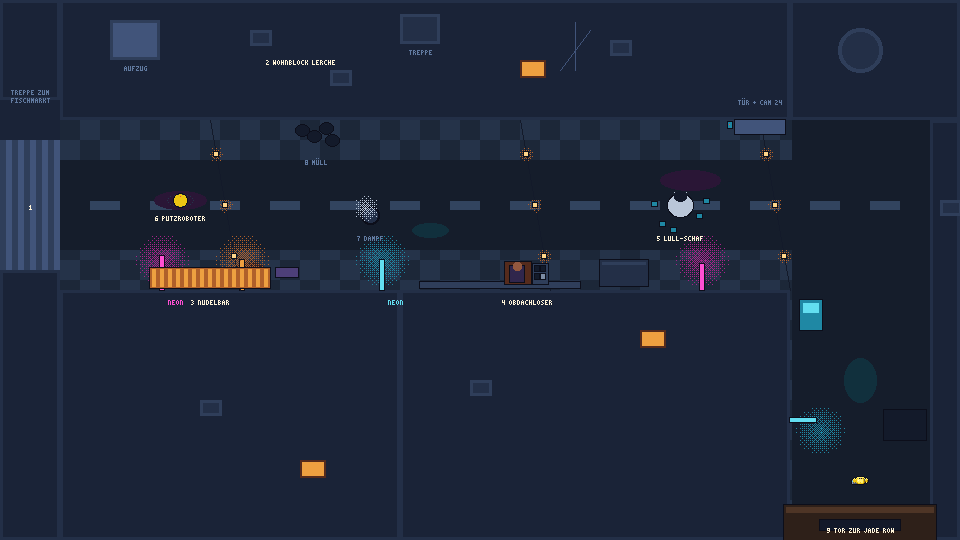
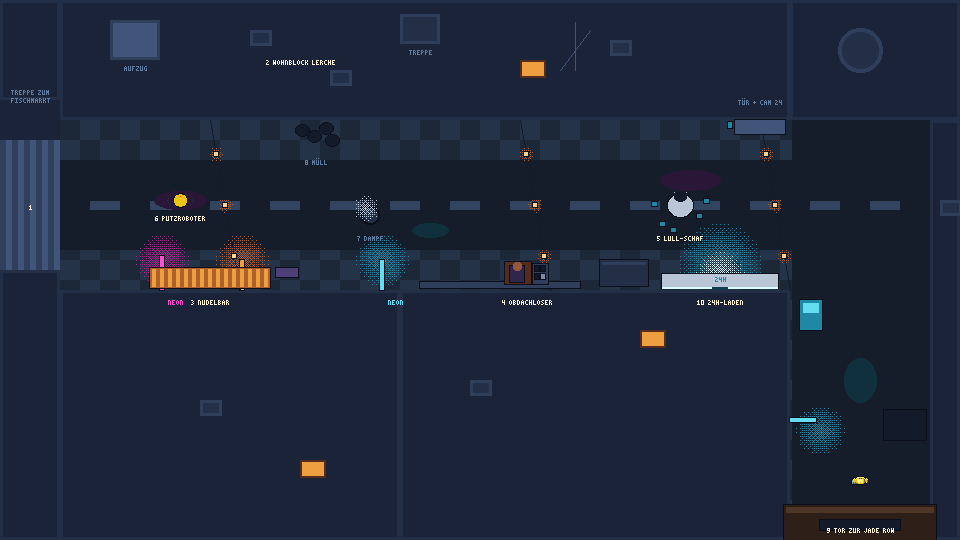
Weg_1 is Fischermann Street now, as the user named it, and it has a 24-hour shop Juno can go into (the user's wish, 2026-11-18; a side quest is planned there, painted later). On the street's south side the shop's white awning with 24H on it and its cold light over the sidewalk and into the road, kep

Changed region(s): [[0.6875, 0.4444, 0.8125, 0.563]]

diff --git a/assets/room_shop24.js b/assets/room_shop24.js
@@ -1,0 +1,12 @@
+// Generated by tools/build-atlas.mjs. Do not edit.
+Cutaway.assets.pack({
+  images: {
[1 lines of base64/hex data omitted]
+  },
+  anims: {
+    "shop24_counter": { image: "room_shop24_atlas", frames: [[488,183,66,58,100]] },
+    "shop24_shelf_a": { image: "room_shop24_atlas", frames: [[323,183,81,86,100]] },
+    "shop24_shelf_b": { image: "room_shop24_atlas", frames: [[406,183,80,77,100]] },
+    "shop24_bg": { image: "room_shop24_atlas", frames: [[1,1,320,180,100],[323,1,320,180,100],[645,1,320,180,100],[1,183,320,180,100],[1,1,320,180,100],[323,1,320,180,100],[645,1,320,180,100],[1,183,320,180,100],[1,1,320,180,100],[323,1,320,180,100],[645,1,320,180,100],[1,183,320,180,100]] },
+  },
+});

diff --git a/assets/room_weg1.js b/assets/room_weg1.js
@@ -1,7 +1,7 @@
 // Generated by tools/build-atlas.mjs. Do not edit.
 Cutaway.assets.pack({
   images: {
[2 lines of base64/hex data omitted]
   },
   anims: {
     "weg1_bg": { image: "room_weg1_atlas", frames: [[1,1,960,540,100]] },

diff --git a/art/rooms/weg1.px.js b/art/rooms/weg1.px.js
@@ -1,10 +1,11 @@
-// Weg_1, the street the user drew in the city plan (2026-11-18): from the gate at the end of Jade Row north, then west past the Wohnblock
+// Fischermann Street (the user's name for it; Weg_1 in the city plan, drawn by the user on 2026-11-18): from the gate at the end of Jade Row north, then west past the Wohnblock
 // Lerche (the whole north side, its door where the arm turns) to the stairs down to the Old Fish Market. Seen straight down as the Drain
 // Market is, at its size (about 40 px a metre, Juno 13 px across, art/characters/juno_top.px.js). On its approved BLOCKS for now (the user
 // approved them 2026-11-18; the review sheets with their numbered labels: art/test/weg1_blocks.px.js), to be painted on their lines.
 //   weg1_bg   960x540, 3x3 screens: the roofs, the wet street, the neon over the south sidewalk, the cables with their lanterns, the
 //             noodle bar, the homeless man with his cart of screens, Lull's sheep asleep on his feet, the cleaning robot in its puddle,
-//             the steam, the rubbish, Lerche's door with its canopy and keypad, the gate's roof at the arm's foot
+//             the steam, the rubbish, Lerche's door with its canopy and keypad, the 24-hour shop's awning and light (Juno can go in),
+//             the gate's roof at the arm's foot
 // W1.walk(x, y) says where Juno can stand (game/places.js takes its shapes from W1's numbers, printed as WEG1_LAYOUT).
 include("../lib/iso.js", { palette: true })
 include("../lib/text.js")
@@ -49,9 +50,9 @@ const W1 = (() => {
 
   const things = (c) => {
     const box = (x, y, w, h, k, edge = "k") => { c.rect(x - 1, y - 1, w + 2, h + 2, edge); c.rect(x, y, w, h, k) }
-    const glow = (x, y, r, k) => { for (let j = -r; j <= r; j++) for (let i = -r; i <= r; i++) { const d = Math.hypot(i, j) / r; if (d < 1 && bay(x + i, y + j) < (1 - d) * 0.6) c.px(x + i, y + j, k) } }
+    const glow = (x, y, r, k, below = 1e9) => { for (let j = -r; j <= r; j++) for (let i = -r; i <= r; i++) { const d = Math.hypot(i, j) / r; if (d < 1 && y + j < below && bay(x + i, y + j) < (1 - d) * 0.6) c.px(x + i, y + j, k) } }   // (below: not past a facade)
     // neon signs sticking out of the facades over the sidewalks: from above only their top edge, the light pool under them
-    for (const [x, y, len, k, pool, side] of [[160, SF, 34, "m", "M", -1], [380, SF, 30, "v", "C", -1], [240, SF, 30, "Q", "P", -1], [700, SF, 26, "m", "M", -1], [AX0, 420, 26, "v", "C", 0]]) {
+    for (const [x, y, len, k, pool, side] of [[160, SF, 34, "m", "M", -1], [380, SF, 30, "v", "C", -1], [240, SF, 30, "Q", "P", -1], [AX0, 420, 26, "v", "C", 0]]) {
       if (side === 0) { glow(x + 30, 430, 26, pool); box(x, 418, len, 4, k) }
       else { glow(x + 2, y + side * 30, 28, pool); box(x, side > 0 ? y : y - len, 4, len, k) }
     }
@@ -60,6 +61,11 @@ const W1 = (() => {
     // the noodle bar's awning on the south side (amber), the shut shop's shutter beside it with a tag
     box(150, SF - 22, 120, 20, "P"); for (let x = 152; x < 268; x += 8) c.rect(x, SF - 21, 4, 18, "Q")
     box(420, SF - 8, 160, 6, "4")
+    // the 24-hour shop on the south side (the user's wish, 2026-11-18: Juno can go in; a side quest there later): its white light
+    // spilling far over the sidewalk and into the road, the awning over its glass front with 24H on it, the door's gap in the middle
+    glow(720, SF - 26, 44, "C", SF - 3); glow(720, SF - 14, 26, "V", SF - 3)
+    box(662, SF - 16, 116, 14, "H"); c.rect(662, SF - 3, 116, 2, "V"); c.rect(712, SF - 3, 16, 3, "c")
+    TXT.draw(c, 720, SF - 13, "24H", "C", { font: "hud", align: "center" })
     // Lerche's door in the house's south-east corner (the user's plan): a canopy over it, the keypad and the doorbell camera beside it
     // (CAM 24), the doormat
     box(735, NF, 50, 14, "5"); box(728, NF + 2, 4, 6, "C"); c.px(729, NF + 4, "q")

diff --git a/art/kit/shop24.kit.px.js b/art/kit/shop24.kit.px.js
@@ -1,0 +1,68 @@
+// The kit pieces shop24 needs (art/rooms/shop24.map.js), made by tools/new-room.mjs. BLOCKS of the 24-hour shop on Fischermann Street
+// (2026-11-18; painted later): plain shapes in a shop's cold white light. Registered with ISOKIT (art/lib/isokit.js has the calls), drawn in
+// room meters, lit by the bake; keys of the world palette (art/lib/iso.js). A kit's names are global in a bake: keep this one's prefixed.
+//
+//   floor    s  pale tiles, 50 cm, a joint between them
+//   walls    sh_wall  white panels, a dark skirting
+//   openings sh_window (the glass front: the street's night behind it; op.sign: the 24H sign seen from behind, mirrored; op.door: a
+//            glass door, its push bar), sh_fridges (drink fridges in a row along the wall, their cyan light, the cans)
+//   props    sh_counter (the counter with the register), sh_shelf (a row of shelves, both sides full)
+// Keys "!k" are never lit.
+
+const KIT_SHOP24 = (() => {
+  const near = (x, c, w = 1 / 48) => Math.abs(x - c) < w, fl = Math.floor
+
+  ISOKIT.floor("s", (u, v) => (near(u * 2, Math.round(u * 2), 1 / 24) || near(v * 2, Math.round(v * 2), 1 / 24) ? "5" : "6"))
+  ISOKIT.wall("sh_wall", (s, h) => (h < 0.08 ? (h >= 0.055 ? "4" : "2") : "G"))
+
+  ISOKIT.opening("sh_window", {
+    pad: [0.05, 0, 0.05, 0.05],
+    pass: () => true,
+    paint(s, h, o) {
+      const { a, e, aw, ah } = o, op = o.op ?? {}
+      if (a < 0 || a >= aw || e >= ah) return a < -1 || a > aw || e > ah ? null : "4"
+      if (op.door && e > 26 && e < 29) return "6"                                        // the push bar
+      if (op.door && (a === fl(aw / 2))) return "4"
+      // the 24H sign seen from behind (mirrored), its tubes lit
+      if (op.sign && e > ah - 16 && e < ah - 6 && a > 8 && a < aw - 8) {
+        const t = (aw - 1 - a) % 12
+        return t < 2 || (t > 4 && t < 6) ? "!N" : "!n"
+      }
+      return (a + e) % 13 === 0 ? "!h" : e < 6 ? "!2" : "!1"                            // the street's night, a drop of rain
+    },
+  })
+  ISOKIT.opening("sh_fridges", {
+    paint(s, h, o) {
+      const { a, e, aw, ah } = o
+      if (a < 0 || a >= aw || e >= ah) return null
+      const door = a % 24
+      if (door < 1 || e < 4 || e > ah - 4) return "4"                                   // the frames, the kick plate, the top
+      if (door === 20) return "6"                                                        // a handle
+      const shelf = (e - 4) % 11
+      if (shelf < 1) return "!C"
+      if (shelf > 3 && (a * 3 + e) % 5 < 3) return ["!q", "!v", "!Q", "!m", "!V"][fl(a / 4 + e / 11) % 5]   // cans and bottles
+      return "!c"
+    },
+  })
+
+  ISOKIT.prop("sh_counter", {
+    draw(pen, p) {
+      const [u, v] = p.at, [du, dv] = p.foot, H = p.h
+      pen.box(u, v, 0, du, dv, H, () => "H", () => "4", () => "5")
+      pen.box(u + 0.2, v + 0.1, H, 0.4, 0.35, 0.2, () => "4", () => "3", (a, e, o) => (e > 2 && a > 2 && a < o.aw - 3 ? "!v" : "3"))   // the register, its display
+      pen.box(u + 0.85, v + 0.15, H, 0.35, 0.3, 0.3, () => "Q", () => "P", () => "Q")     // a rack of sweets
+    },
+  })
+  ISOKIT.prop("sh_shelf", {
+    draw(pen, p) {
+      const [u, v] = p.at, [du, dv] = p.foot, H = p.h
+      pen.box(u, v, 0, du, dv, H, () => "4", () => "3", (a, e, o) => {
+        const row = e % 12
+        if (row < 2) return "5"                                                          // the boards
+        return ["q", "v", "Q", "m", "C", "y", "N"][fl(a / 3 + e / 12) % 7]               // the goods, every colour
+      })
+    },
+  })
+
+  return {}
+})()

diff --git a/game/rooms/weg1.js b/game/rooms/weg1.js
@@ -1,4 +1,4 @@
-// weg1: Weg_1, the street the user drew in the city plan (2026-11-18), seen straight down as the Drain Market is (art/rooms/weg1.px.js, on
+// weg1: Fischermann Street (the user's name; Weg_1 in the city plan, where the user drew it on 2026-11-18), seen straight down as the Drain Market is (art/rooms/weg1.px.js, on
 // its approved blocks for now): from the gate at the end of Jade Row north, then west past the Wohnblock Lerche (its door where the arm
 // turns: the keypad, CAM 24's doorbell lens) to the stairs down to the Old Fish Market, shut for now (the user: maybe later, with a side
 // quest). Juno is seen from above here (game/cast.js). Its people (the homeless man, Lull's sheep, the cleaning robot) are in the picture
@@ -8,7 +8,7 @@
 (function () {
   const A = Nagiwa.at.weg1, AJ = Nagiwa.at.jade_row;
   Cutaway.room("weg1", {
-    name: "Weg_1", background: "weg1_bg", size: /** @type {[number, number]} */ (A.size), walk: A.walk, holes: A.holes,
+    name: "Fischermann Street", background: "weg1_bg", size: /** @type {[number, number]} */ (A.size), walk: A.walk, holes: A.holes,
     light: { ambient: 1 },
     fx: [
       { kind: "rain", rect: [0, 0, A.size[0], A.size[1]], count: 160, color: "#41547a", speed: 160, slant: 0.15, length: 3 },
@@ -29,6 +29,9 @@
       noodles: { name: "Nudelbar", rect: A.noodlesRect, walkTo: A.noodles, face: "down", look: "Die Nudelbar hat noch auf. Riecht nach Brühe und nassem Karton." },
       trash: { name: "Müll", poly: A.trashPoly, walkTo: A.trash, face: "up", look: "Müllsäcke vor dem Wohnblock. Die holt hier keiner." },
       steam: { name: "Gully", poly: A.steamPoly, walkTo: A.steam, face: "right", look: "Aus dem Gully dampft es. Darunter läuft irgendwas Warmes." },
+      // the 24-hour shop (the user's wish, 2026-11-18): Juno can go in from Chapter 2 on; a side quest is planned there
+      shop: { name: "24h-Laden", rect: A.shopRect, walkTo: A.shop, face: "down", look: ["Ein 24h-Laden. Das Licht fällt bis auf die Straße.", "Drinnen sieht man Regale, aber keinen Menschen."],
+        use: [{ if: "day>4", then: [{ sfx: "door_open" }, { goto: "shop24", at: Nagiwa.at.shop24.arrive, face: "se" }], else: ["Heute nicht."] }] },
       lerche: { name: "Wohnblock Lerche", rect: A.lercheRect, walkTo: A.lerche, face: "up",
         look: ["Die Haustür vom Wohnblock Lerche. Neben der Klingel sitzt das Zahlenfeld.", "Und die Linse, durch die ich in CAM 24 schaue."] },
     },

diff --git a/art/rooms/shop24.map.js b/art/rooms/shop24.map.js
@@ -1,0 +1,47 @@
+// shop24: the 24-hour shop on Fischermann Street (Chapter 2, the user's wish, 2026-11-18: Juno can go in; a side quest is planned there), as a
+// map (art/lib/isomap.js has the format), made by tools/new-room.mjs. Every length in meters. BLOCKS (to be painted later): seen from the
+// south-east, so its north wall is the glass front onto the street (u east), its west wall the drink fridges. Two rows of shelves, the counter
+// with the register by the door, cold tubes over it all; in the window the 24H sign seen from behind.
+"use strict";
+
+ISO_MAPS.shop24 = {
+  size: [5, 4], cell: 0.5, at: [144, 86], screen: [320, 180], margin: 0.2,
+  // "s" the shop's pale tiles
+  floor: [
+    "ssssssssss",
+    "ssssssssss",
+    "ssssssssss",
+    "ssssssssss",
+    "ssssssssss",
+    "ssssssssss",
+    "ssssssssss",
+    "ssssssssss",
+  ],
+  walls: [
+    { from: [0, 0], to: [5, 0], h: 2.6, kit: "sh_wall" },          // 0: the north wall, the glass front onto the street
+    { from: [0, 0], to: [0, 4], h: 2.6, kit: "sh_wall" },          // 1: the west wall, the fridges
+    { from: [0, 4], to: [5, 4], h: 2.6, kit: "sh_wall", stub: true },
+    { from: [5, 0], to: [5, 4], h: 2.6, kit: "sh_wall", stub: true },
+  ],
+  openings: [
+    { id: "window", wall: 0, from: 0.3, to: 1.9, h: [0.5, 2.3], kit: "sh_window", sign: true },
+    { id: "door", wall: 0, from: 2.1, to: 2.9, h: [0, 2.2], kit: "sh_window", door: true },
+    { id: "window2", wall: 0, from: 3.1, to: 4.7, h: [0.5, 2.3], kit: "sh_window" },
+    { id: "fridges", wall: 1, from: 0.3, to: 3.3, h: [0, 2.0], kit: "sh_fridges" },
+  ],
+  props: [
+    { id: "counter", kit: "sh_counter", at: [3.4, 0.9], foot: [1.4, 0.6], h: 1.0 },
+    { id: "shelf_a", kit: "sh_shelf", at: [1.1, 1.7], foot: [2.0, 0.45], h: 1.5 },
+    { id: "shelf_b", kit: "sh_shelf", at: [1.1, 2.9], foot: [2.0, 0.45], h: 1.5 },
+  ],
+  spots: {
+    arrive: [2.5, 0.65, "se"], door: [2.5, 0.55, "ne"], counter: [3.55, 1.8, "ne"], fridges: [0.65, 1.6, "nw"],
+    shelves: [2.3, 2.45, "nw"],
+  },
+  lights: [
+    { id: "tubes", at: [2.5, 2.0, 2.55], r: 200, power: 1.1, color: "#d8f0ff", flicker: 0.04,
+      bake: { line: [[1.0, 1.5, 2.55], [4.0, 1.5, 2.55]], reach: 4.5, power: 1.6, floor: 1.3, wrap: 0.6 } },
+    { id: "fridges", at: [0.1, 1.8, 1.0], r: 60, power: 0.7, color: "#62def0",
+      bake: { line: [[0.05, 0.4, 1.0], [0.05, 3.2, 1.0]], reach: 1.2, power: 1.4 } },
+  ],
+};

diff --git a/game/rooms/shop24.layout.js b/game/rooms/shop24.layout.js
@@ -1,0 +1,6 @@
+// generated by tools/iso-layout.mjs from art/rooms/shop24.map.js and its bake (tools/build_art.sh room shop24):
+// never edit by hand; change the map or the kit and build again
+"use strict";
+
+Nagiwa.layouts = Nagiwa.layouts || {};
+Nagiwa.layouts["shop24"] = {"walk":[[144,92,292,166,276,174,224,148,198,161,124,124,96,138,172,176,176,176,196,166,216,176,80,176,28,150]],"holes":[[86,143,58,157,96,176,152,176]],"props":{"counter":{"front":[186,155,205,164,250,187,269,177,288,168],"baseline":187,"poly":[224,125,269,147,269,177,250,187,205,164,205,134],"at":[237,181],"box":[204,123,66,58],"sprite":"shop24_counter","shape":[203,133,224,122,230,122,249,130,259,135,271,146,271,178,265,182,234,182,203,166]},"shelf_a":{"front":[91,128,110,138,174,170,189,163,208,153],"baseline":170,"poly":[125,86,189,118,189,163,174,170,110,138,110,93],"at":[149,171],"box":[109,85,81,86],"sprite":"shop24_shelf_a","shape":[108,92,122,84,127,84,191,117,191,164,176,172,172,172,108,139]},"shelf_b":{"front":[53,148,72,157,136,189,150,182,170,172],"baseline":189,"poly":[86,105,150,137,150,182,136,189,72,157,72,112],"at":[111,181],"box":[71,104,80,77],"sprite":"shop24_shelf_b","shape":[70,111,84,103,88,103,152,136,151,182,116,182,70,158]}},"openings":{"window":[153,21,54,82],"door":[210,53,29,81],"window2":[242,66,54,82],"fridges":[37,30,99,111]},"openingPolys":{"window":[154,76,205,101,205,47,154,22],"door":[211,120,237,132,237,66,211,54],"window2":[243,121,294,146,294,92,243,67],"fridges":[134,91,38,139,38,79,134,31]},"zonePolys":{},"spots":{"arrive":[203,136],"door":[206,135],"counter":[200,172],"fridges":[114,122],"shelves":[139,162]},"face":{"arrive":"se","door":"ne","counter":"ne","fridges":"nw","shelves":"nw"},"lamps":[{"id":"tubes","at":[160,82],"r":200,"power":1.1,"color":"#d8f0ff","flicker":0.04,"bake":{"line":[[1,1.5,2.55],[4,1.5,2.55]],"reach":4.5,"power":1.6,"floor":1.3,"wrap":0.6}},{"id":"fridges","at":[90,86],"r":60,"power":0.7,"color":"#62def0","bake":{"line":[[0.05,0.4,1],[0.05,3.2,1]],"reach":1.2,"power":1.4}}]};

diff --git a/game/rooms/shop24.js b/game/rooms/shop24.js
@@ -1,0 +1,23 @@
+// shop24: the 24-hour shop on Fischermann Street (the user's wish, 2026-11-18), on blocks for now (art/rooms/shop24.map.js; painted later): its
+// picture, walk area, props and lamps come from the bake (game/rooms/shop24.layout.js, Nagiwa.at.shop24). Juno can go in from Chapter 2 on;
+// a side quest is planned here (nobody behind the counter yet). The way in is the shop's door on the street (game/rooms/weg1.js).
+"use strict";
+
+(function () {
+  const A = Nagiwa.at.shop24, AW = Nagiwa.at.weg1;
+  Cutaway.room("shop24", {
+    name: "24h-Laden", background: "shop24_bg",
+    walk: A.walk, holes: A.holes, props: A.props,
+    light: { ambient: 0.9, lamps: A.lamps.map((/** @type {any} */ { bake, zone, ...lamp }) => lamp) },
+    ambience: ["fridge_hum", "neon_buzz"], music: { theme: "juno", intensity: 0.2 },
+    hotspots: {
+      door: { name: "Zur Fischermann Street", poly: A.doorPoly, walkTo: A.door, face: "ne", look: "Draußen ist die Fischermann Street.",
+        use: [{ sfx: "door_open" }, { goto: "weg1", at: AW.shop, face: "down" }] },
+      window: { name: "Schaufenster", poly: A.windowPoly, walkTo: A.door, face: "ne", look: "Im Fenster steht 24H, von innen verkehrt herum." },
+      fridges: { name: "Kühlschränke", poly: A.fridgesPoly, walkTo: A.fridges, face: "nw", look: "Kühlschränke voller Dosen. Das Licht ist das kälteste im ganzen Neunten." },
+      counter: { name: "Kasse", poly: A.counterPoly, walkTo: A.counter, face: "ne", look: ["Hinter der Kasse ist keiner.", "Rund um die Uhr offen heißt hier nicht, dass jemand da ist."] },
+      shelves: { name: "Regale", poly: A.shelf_aPoly, walkTo: A.shelves, face: "nw", look: "Nudeln, Batterien, Lull-Pflaster im Zehnerpack. Alles, was man nachts braucht." },
+      shelves_b: { name: "Regale", poly: A.shelf_bPoly, walkTo: A.shelves, face: "nw", look: "Nudeln, Batterien, Lull-Pflaster im Zehnerpack. Alles, was man nachts braucht." },
+    },
+  });
+})();

diff --git a/game/places.js b/game/places.js
@@ -50,6 +50,8 @@ Nagiwa.at = {
   // Ines' flat, 4B, on blocks (art/rooms/ines_wohnung.map.js, game/rooms/ines_wohnung.layout.js); the fridge's upper part has the napkin
   // under its magnet, its lower part is the freezer (one hotspot asks which)
   ines_wohnung: fromLayout(Nagiwa.layouts.ines_wohnung),
+  // shop24 (art/rooms/shop24.map.js, game/rooms/shop24.layout.js)
+  shop24: fromLayout(Nagiwa.layouts.shop24),
   // lerche_eg (art/rooms/lerche_eg.map.js, game/rooms/lerche_eg.layout.js)
   // (the street door is a gap in the near wall, south-east: its hotspot drawn on it from the map, u 7.3 to 8.2 at v 4, up to 2 m)
   lerche_eg: { ...fromLayout(Nagiwa.layouts.lerche_eg), doorPoly: [250, 265, 278, 279, 278, 219, 250, 205] },
@@ -104,7 +106,7 @@ Nagiwa.at = {
     holes: [[296, 130, 344, 130, 344, 156, 296, 156], [596, 254, 654, 254, 654, 282, 596, 282], [501, 254, 552, 254, 552, 282, 501, 282],
       [798, 296, 826, 296, 826, 334, 798, 334], [880, 406, 922, 406, 922, 444, 880, 444], [664, 190, 696, 190, 696, 220, 664, 220], [170, 190, 190, 190, 190, 210, 170, 210]],
     gate: [860, 492], lerche: [760, 140], fish: [72, 205], homelessTalk: [527, 246], sheepTalk: [650, 205], robotTalk: [206, 200],
-    noodles: [210, 262], trash: [320, 166], steam: [348, 215],
+    noodles: [210, 262], trash: [320, 166], steam: [348, 215], shop: [720, 268], shopRect: [662, 274, 116, 14],
     gateRect: [784, 505, 152, 35], fishRect: [0, 140, 60, 130], homelessRect: [505, 262, 43, 22], noodlesRect: [150, 268, 120, 20], lercheRect: [728, 120, 57, 14],
     sheepPoly: [668, 193, 692, 193, 694, 205, 692, 217, 668, 217, 666, 205], trashPoly: [295, 122, 340, 122, 340, 148, 295, 148],
     steamPoly: [361, 206, 370, 203, 379, 206, 382, 215, 379, 224, 370, 227, 361, 224, 358, 215], robotPoly: [173, 196, 176, 193, 184, 193, 187, 196, 187, 204, 184, 207, 176, 207, 173, 204],

diff --git a/game/kapitel2.js b/game/kapitel2.js
@@ -336,7 +336,7 @@ Cutaway.act("kapitel2", {
     { cache: "note_kessler_photo" }, { cache: "note_obs_handbook" },
     { set: "know_ines" }, { set: "saw_varga" }, { set: "read_kessler" },
     { set: "fridge_empty" }, { set: "rent_notice" }, { set: "moth_met" }, { set: "bao_soup" },
-    { been_to: ["flat", "deck", "kessel_14", "kessel_lobby", "kowalski", "gasse", "laundromat", "sims", "dach", "dach_blick", "dach_sitzen", "lucky_static", "jade_row", "okonkwo_shop", "drain_market", "sable_booth", "cam15", "signal_lost", "flat_danach", "cam03", "cam04", "cam07", "cam07v", "cam14", "cam18", "cam21", "cam22", "cam23", "cam24", "cam25", "cam30", "cam31", "sumpf", "sumpf_fahrt", "lantern_versteck", "drain_arrival", "weg1", "lerche_eg"] },
+    { been_to: ["flat", "deck", "kessel_14", "kessel_lobby", "kowalski", "gasse", "laundromat", "sims", "dach", "dach_blick", "dach_sitzen", "lucky_static", "jade_row", "okonkwo_shop", "drain_market", "sable_booth", "cam15", "signal_lost", "flat_danach", "cam03", "cam04", "cam07", "cam07v", "cam14", "cam18", "cam21", "cam22", "cam23", "cam24", "cam25", "cam30", "cam31", "sumpf", "sumpf_fahrt", "lantern_versteck", "drain_arrival", "weg1", "lerche_eg", "shop24"] },
     { solo: true },
   ],
 });

diff --git a/index.html b/index.html
@@ -68,6 +68,7 @@
 <script src="assets/room_klinik.js"></script>
 <script src="assets/room_lerche_eg.js"></script>
 <script src="assets/room_weg1.js"></script>
+<script src="assets/room_shop24.js"></script>
 <script src="assets/cams.js"></script>
 <script src="assets/ui.js"></script>
 <script src="assets/deck.js"></script>
@@ -91,6 +92,7 @@
 <script src="game/rooms/lantern_versteck.layout.js"></script>
 <script src="game/rooms/klinik.layout.js"></script>
 <script src="game/rooms/lerche_eg.layout.js"></script>
+<script src="game/rooms/shop24.layout.js"></script>
 <script src="game/rooms/jade_row.parts.js"></script>
 <script src="game/rooms/sims.parts.js"></script>
 <script src="game/places.js"></script>
@@ -122,6 +124,7 @@
 <script src="game/rooms/klinik.js"></script>
 <script src="game/rooms/lerche_eg.js"></script>
 <script src="game/rooms/weg1.js"></script>
+<script src="game/rooms/shop24.js"></script>
 <script src="game/auftrag_varga.js"></script>
 <script src="game/auftrag_tide.js"></script>
 <script src="game/vesper.js"></script>

diff --git a/art/test/weg1_blocks.px.js b/art/test/weg1_blocks.px.js
@@ -13,7 +13,7 @@ const W1S = (() => {
     name(c, 30, 205, "1", "W"); name(c, 30, 90, "TREPPE ZUM", "6"); name(c, 30, 98, "FISCHMARKT", "6")
     name(c, 300, 60, "2 WOHNBLOCK LERCHE", "W"); name(c, 760, 100, "TÜR + CAM 24", "6"); name(c, 135, 66, "AUFZUG", "6"); name(c, 420, 50, "TREPPE", "6")
     name(c, 210, 300, "3 NUDELBAR", "W"); name(c, 527, 300, "4 OBDACHLOSER", "W"); name(c, 680, 236, "5 LULL-SCHAF", "W"); name(c, 180, 216, "6 PUTZROBOTER", "W")
-    name(c, 370, 236, "7 DAMPF", "6"); name(c, 316, 160, "8 MÜLL", "6"); name(c, 860, 528, "9 TOR ZUR JADE ROW", "W"); name(c, 175, 300, "NEON", "m"); name(c, 395, 300, "NEON", "v")
+    name(c, 370, 236, "7 DAMPF", "6"); name(c, 316, 160, "8 MÜLL", "6"); name(c, 860, 528, "9 TOR ZUR JADE ROW", "W"); name(c, 175, 300, "NEON", "m"); name(c, 395, 300, "NEON", "v"); name(c, 720, 300, "10 24H-LADEN", "W")
   }
 
   const scene0 = (c) => { W1.ground(c); W1.things(c); labels(c); c.stamp("juno_top_idle_up", 850, 470) }
